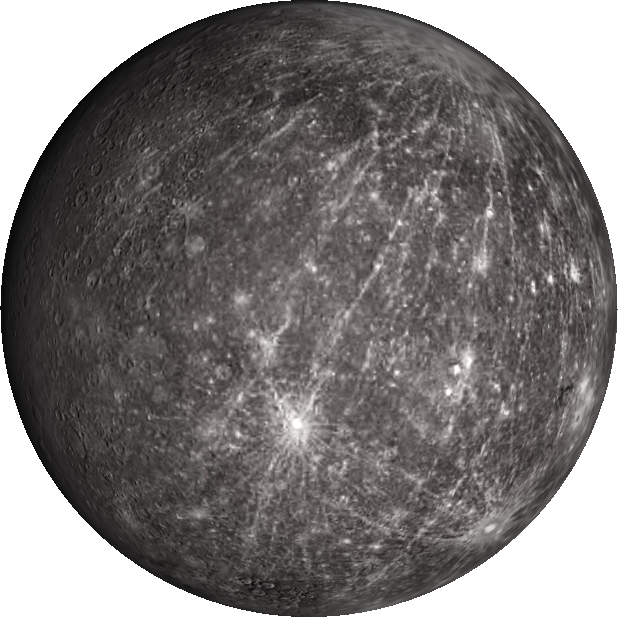
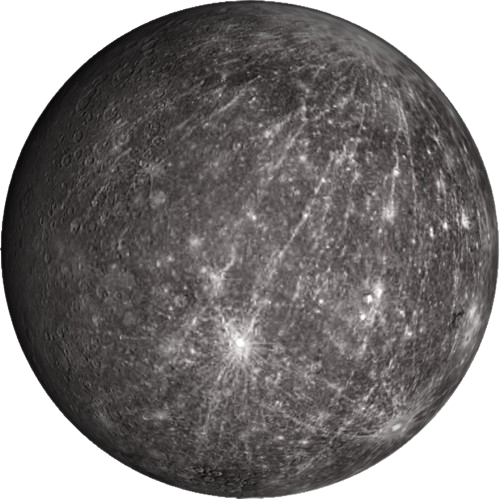
The format of the images/ extension, not sure, was wrong. Fixed it using removebg.com

diff --git a/webserver/mysite/webapp/templates/webapp/home.html b/webserver/mysite/webapp/templates/webapp/home.html
@@ -29,8 +29,8 @@
                     let _depth6 = `${50 - (_mouseX - _w) * 0.06}% ${50 - (_mouseY - _h) * 0.09}%`;
                     let _depth7 = `${50 - (_mouseX - _w) * 0.06}% ${50 - (_mouseY - _h) * 0.12}%`;
                     let _depth8 = `${50 - (_mouseX - _w) * 0.06}% ${50 - (_mouseY - _h) * 0.16}%`;
-                    let _depth9 = `${50 - (_mouseX - _w) * 0.06}% ${50 - (_mouseY - _h) * 0.20}%`;
-                    let x = `${_depth3}, ${_depth2}, ${_depth1}`;
+                    let _depth9 = `${50 - (_mouseX - _w) * 0.06}% ${50 - (_mouseY - _h) * 0.24}%`;
+                    let x = `${_depth9},${_depth8},${_depth7},${_depth6},${_depth5},${_depth4},${_depth3}, ${_depth2}, ${_depth1}`;
                     console.log(x);
                     elem.style.backgroundPosition = x;
                 }

diff --git a/webserver/mysite/webapp/static/webapp/home.css b/webserver/mysite/webapp/static/webapp/home.css
@@ -11,7 +11,7 @@ body{
   background-repeat: no-repeat;
   background-position: center;
   background-position: 50% 50%;
-  background-size:10%;
+  background-size:10%, 10%, 10%, 10%, 10%, 10%, 10%, 10%, 10%;
 }
 h1 {
   position: absolute;
